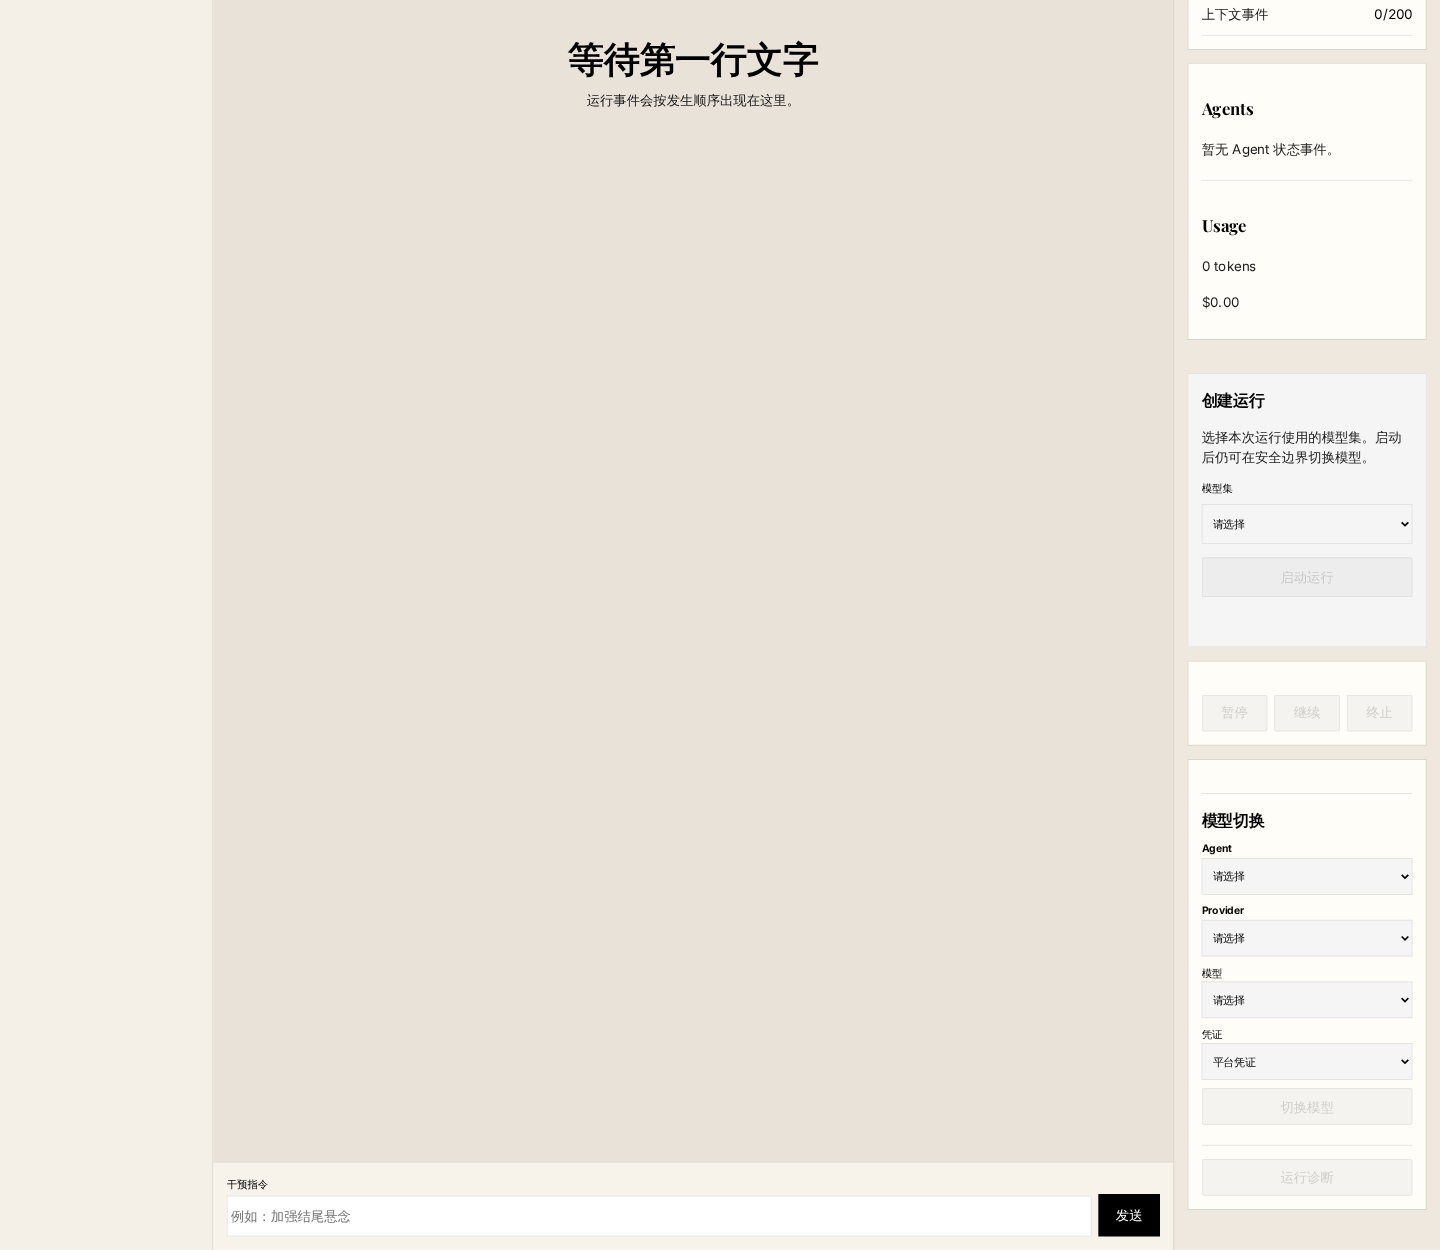
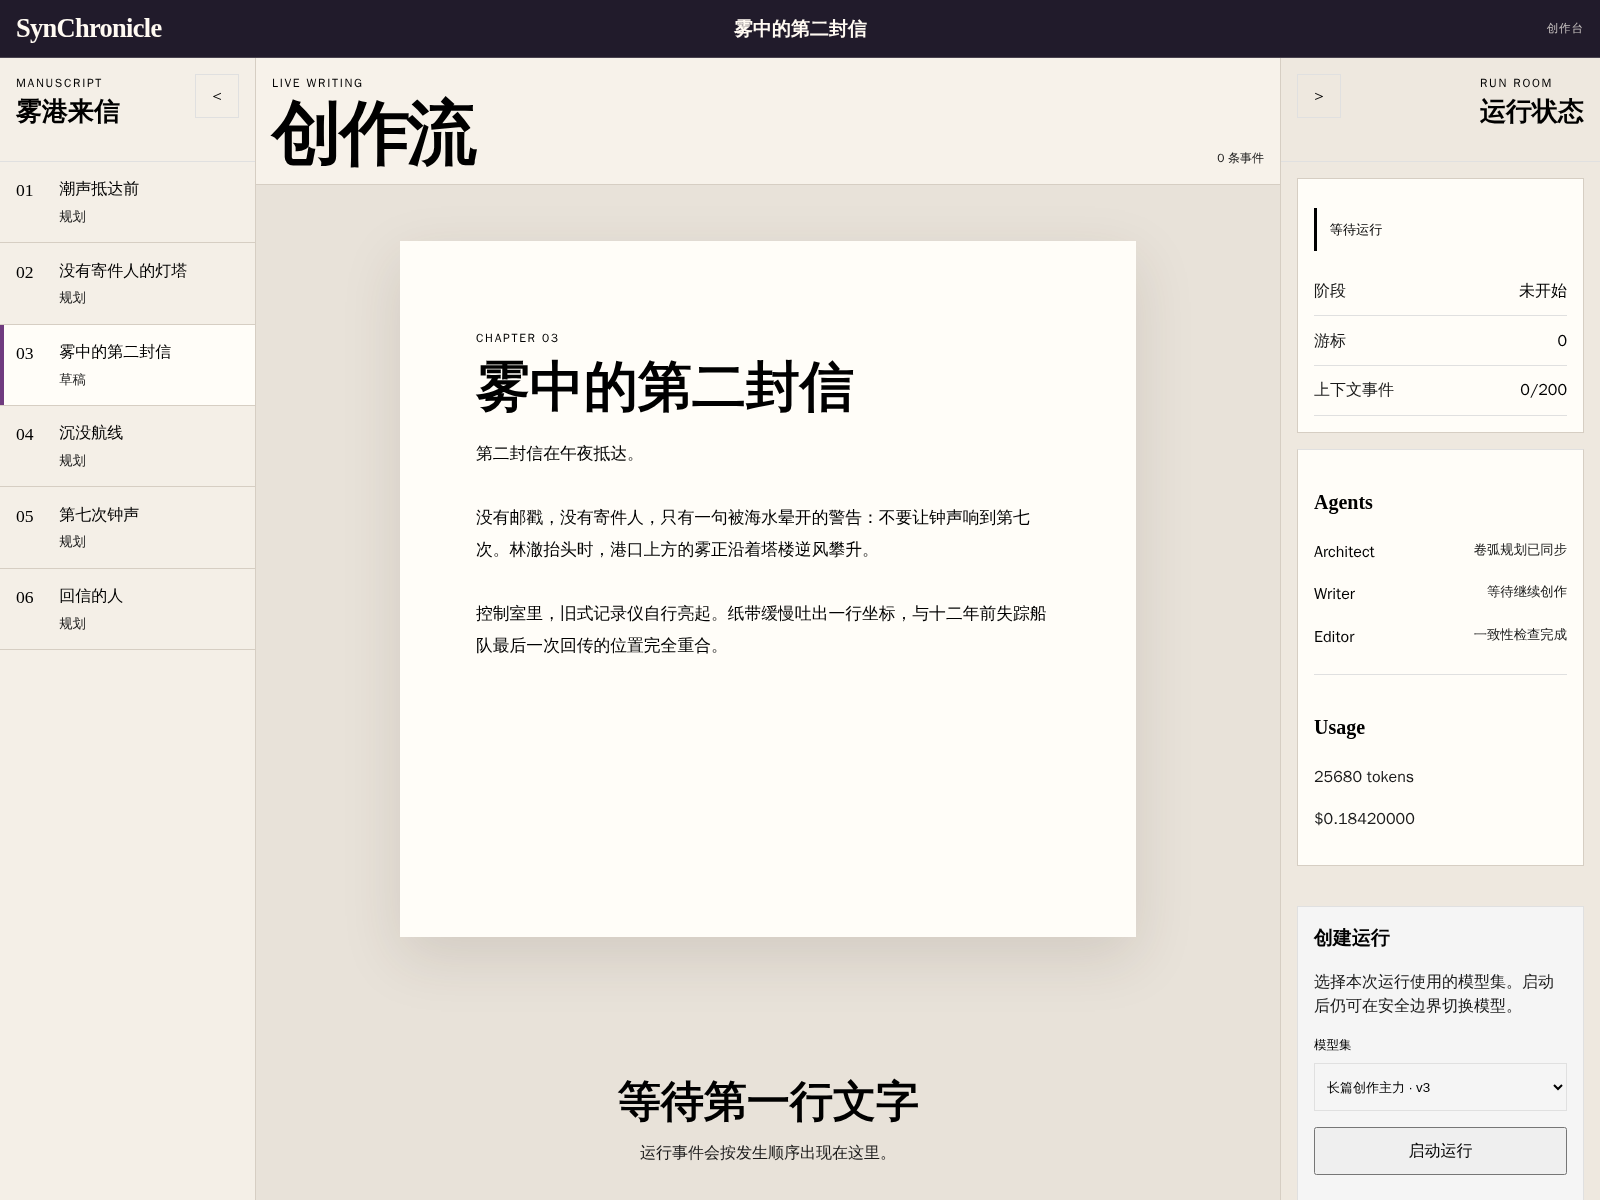
docs(readme): address editorial review feedback Co-authored-by: monkeycode-ai <[email redacted]>

diff --git a/README.md b/README.md
@@ -2,6 +2,8 @@
 
 <div align="center">
 
+<strong>SynChronicle</strong>
+
 **多智能体 AI 长篇创作引擎，让规划、写作、评审与续写在同一条可恢复的工作流中持续推进。**
 
 [![Node.js](https://img.shields.io/badge/Node.js-24%2B-111111?logo=node.js&logoColor=white)](https://nodejs.org/)
@@ -194,7 +196,7 @@ pnpm test:browser
 - Web 平台提供来源校验、请求限流、安全响应头、管理接口 RBAC 与加密凭据存储。
 - 使用第三方模型服务时，确认其数据处理和保留策略符合你的要求。
 
-安全相关问题请通过仓库所有者提供的私密渠道报告，避免在公开 Issue 中披露凭据或可利用细节。
+安全相关问题请通过 [GitHub Security Advisory](https://github.com/one-ea/SynChronicle/security/advisories/new) 私密报告，避免在公开 Issue 中披露凭据或可利用细节。
 
 ## License
 